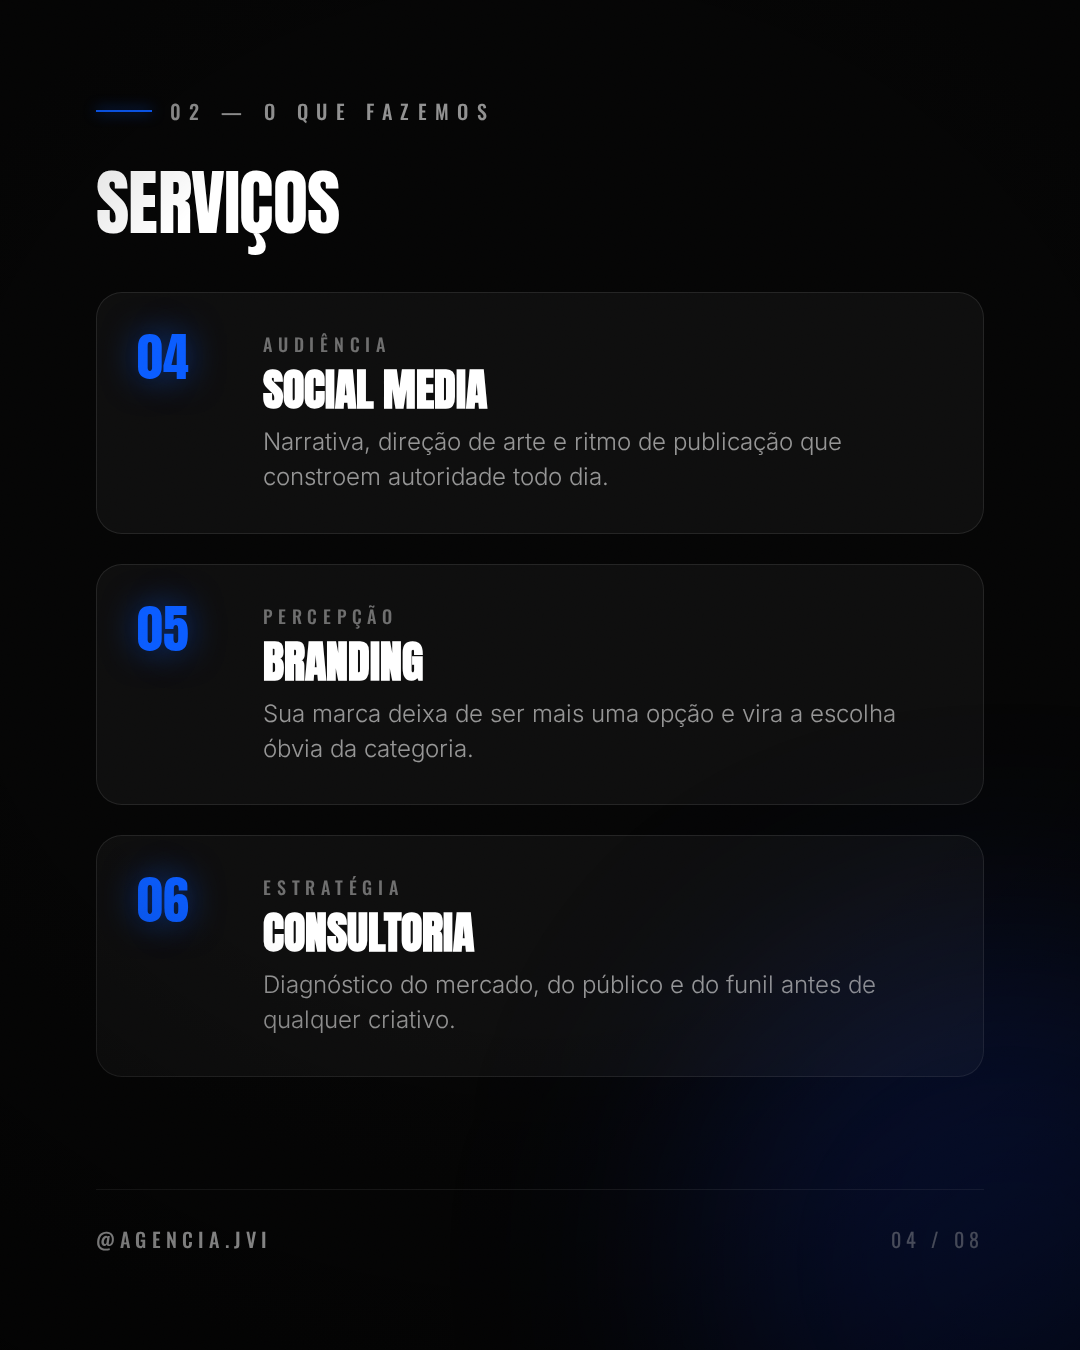
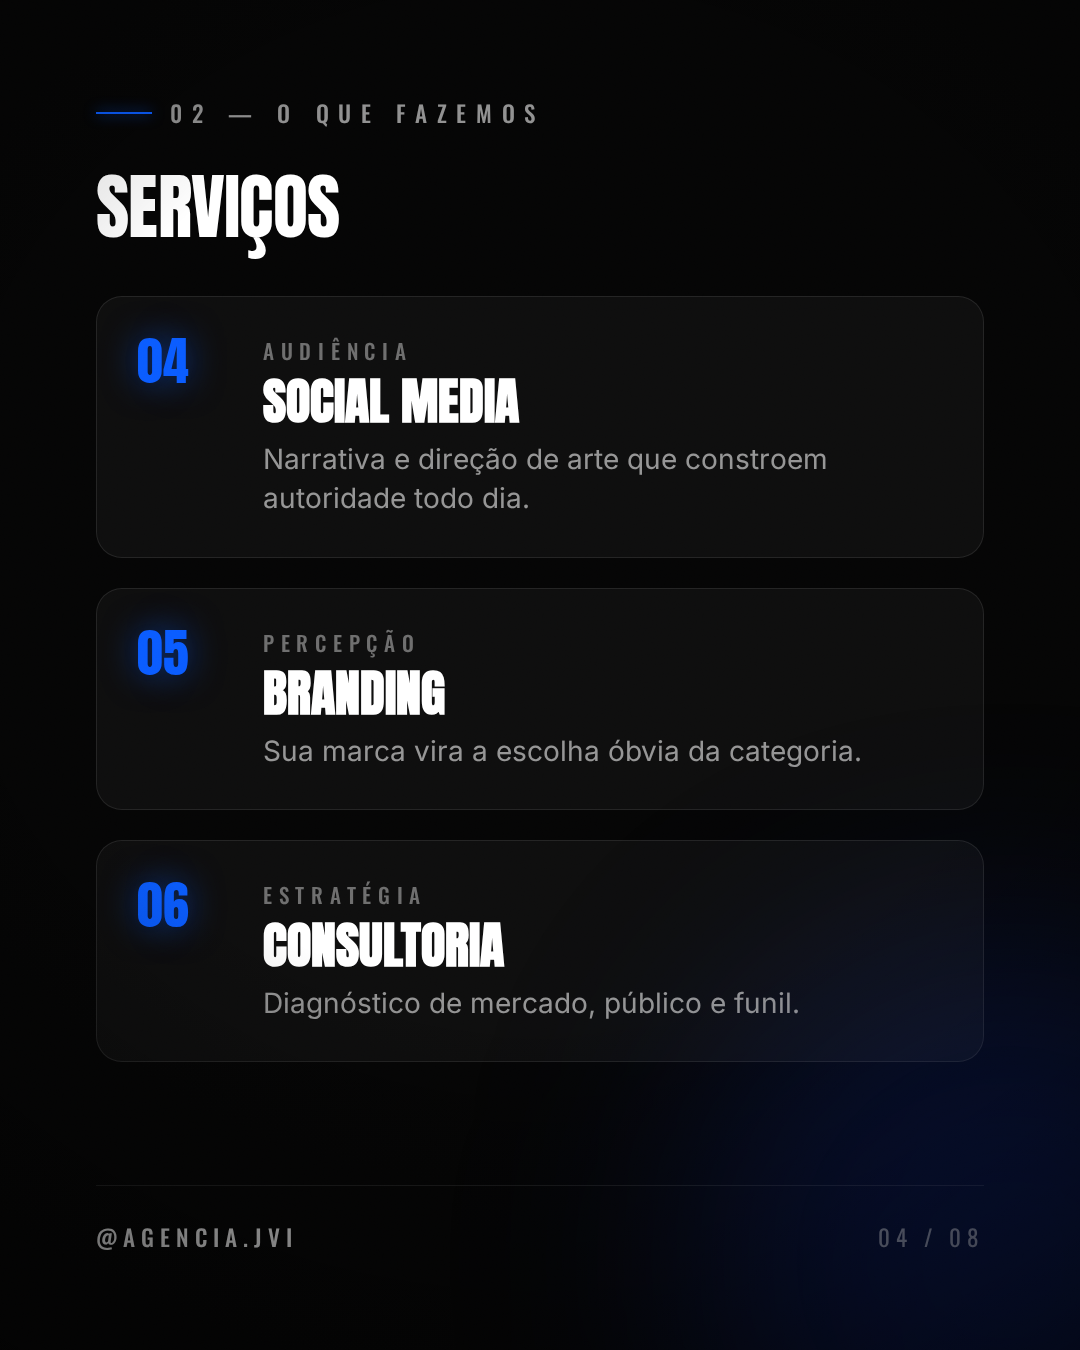
fix: aumenta legibilidade do carrossel no celular
No feed do Instagram cada slide aparece com cerca de 40% da largura
original, entao os corpos de texto de 22-27px ficavam pequenos demais.

- escala tipografica maior em todos os niveis (corpo 26->30, textos de
  servico 24->28, metodo 22->26, passos 27->31, labels e rodape)
- peso das fontes de leitura de 300 para 400/500, ganhando contraste
- copy enxugada em 17 trechos para caber na escala nova
- render.mjs passa a avisar quando o conteudo estoura os 1350px, que
  antes seria cortado em silencio pelo overflow:hidden

Claude-Session: https://claude.ai/code/session_01JFebwyHfD3vnGYjN18YjrG

diff --git a/carrossel/index.html b/carrossel/index.html
@@ -65,7 +65,7 @@ body{font-family:var(--sans);-webkit-font-smoothing:antialiased;text-rendering:o
 
 /* ================= TIPOGRAFIA ================= */
 .eyebrow{
-  font-family:var(--cond);font-weight:500;font-size:20px;
+  font-family:var(--cond);font-weight:500;font-size:23px;
   letter-spacing:.42em;text-transform:uppercase;color:var(--muted);
   display:flex;align-items:center;gap:18px;margin:0;
 }
@@ -83,11 +83,11 @@ body{font-family:var(--sans);-webkit-font-smoothing:antialiased;text-rendering:o
 .accent{color:var(--blue);text-shadow:0 0 42px rgba(10,92,255,.55);}
 
 .lead{
-  font-family:var(--sans);font-weight:300;font-size:31px;line-height:1.5;
+  font-family:var(--sans);font-weight:400;font-size:35px;line-height:1.45;
   color:rgba(255,255,255,.78);margin:0;
 }
 .body{
-  font-family:var(--sans);font-weight:300;font-size:26px;line-height:1.55;
+  font-family:var(--sans);font-weight:400;font-size:30px;line-height:1.5;
   color:var(--muted);margin:0;
 }
 
@@ -97,7 +97,7 @@ body{font-family:var(--sans);-webkit-font-smoothing:antialiased;text-rendering:o
 .foot{
   margin-top:auto;padding-top:34px;border-top:1px solid var(--line);
   display:flex;align-items:center;justify-content:space-between;
-  font-family:var(--cond);font-weight:400;font-size:20px;
+  font-family:var(--cond);font-weight:400;font-size:23px;
   letter-spacing:.26em;text-transform:uppercase;color:var(--dim);
 }
 .foot b{color:rgba(255,255,255,.72);font-weight:500;}
@@ -128,28 +128,28 @@ body{font-family:var(--sans);-webkit-font-smoothing:antialiased;text-rendering:o
   font-family:var(--display);font-size:52px;line-height:1;color:var(--blue);
   text-shadow:0 0 34px rgba(10,92,255,.5);flex:none;width:96px;
 }
-.svc-tag{font-family:var(--cond);font-weight:500;font-size:18px;letter-spacing:.32em;
+.svc-tag{font-family:var(--cond);font-weight:500;font-size:21px;letter-spacing:.32em;
   text-transform:uppercase;color:var(--dim);margin:0 0 10px;}
-.svc-title{font-family:var(--display);font-size:44px;line-height:1;text-transform:uppercase;margin:0 0 14px;}
-.svc-text{font-family:var(--sans);font-weight:300;font-size:24px;line-height:1.45;color:var(--muted);margin:0;}
+.svc-title{font-family:var(--display);font-size:50px;line-height:1;text-transform:uppercase;margin:0 0 14px;}
+.svc-text{font-family:var(--sans);font-weight:400;font-size:28px;line-height:1.4;color:var(--muted);margin:0;}
 
 /* ================= MÉTODO ================= */
 .grid2{display:grid;grid-template-columns:1fr 1fr;gap:26px;margin-top:54px;}
 .step{border:1px solid var(--line);border-radius:24px;background:var(--glass);padding:34px 32px;}
-.step-n{font-family:var(--display);font-size:40px;line-height:1;color:var(--blue);
+.step-n{font-family:var(--display);font-size:46px;line-height:1;color:var(--blue);
   text-shadow:0 0 30px rgba(10,92,255,.5);display:block;margin-bottom:16px;}
-.step h3{font-family:var(--display);font-size:38px;line-height:1;text-transform:uppercase;margin:0 0 12px;}
-.step p{font-family:var(--sans);font-weight:300;font-size:22px;line-height:1.45;color:var(--muted);margin:0;}
+.step h3{font-family:var(--display);font-size:44px;line-height:1;text-transform:uppercase;margin:0 0 12px;}
+.step p{font-family:var(--sans);font-weight:400;font-size:26px;line-height:1.4;color:var(--muted);margin:0;}
 
 /* ================= RESULTADOS ================= */
-.stats{display:grid;grid-template-columns:1fr 1fr;gap:30px;margin-top:60px;}
-.stat{border:1px solid var(--line);border-radius:26px;background:var(--glass);padding:44px 38px;}
+.stats{display:grid;grid-template-columns:1fr 1fr;gap:26px;margin-top:48px;}
+.stat{border:1px solid var(--line);border-radius:26px;background:var(--glass);padding:38px 36px;}
 .stat-num{
   font-family:var(--display);font-size:112px;line-height:.9;
   background:linear-gradient(180deg,#ffffff 0%,#7fb0ff 55%,var(--blue) 100%);
   -webkit-background-clip:text;background-clip:text;color:transparent;display:block;
 }
-.stat-label{font-family:var(--cond);font-weight:400;font-size:22px;letter-spacing:.24em;
+.stat-label{font-family:var(--cond);font-weight:500;font-size:26px;letter-spacing:.24em;
   text-transform:uppercase;color:var(--muted);margin-top:18px;}
 
 /* ================= PASSOS ================= */
@@ -163,7 +163,7 @@ body{font-family:var(--sans);-webkit-font-smoothing:antialiased;text-rendering:o
   box-shadow:0 0 42px rgba(10,92,255,.35);
 }
 .stepline h3{font-family:var(--display);font-size:52px;line-height:1;text-transform:uppercase;margin:12px 0 14px;}
-.stepline p{font-family:var(--sans);font-weight:300;font-size:27px;line-height:1.45;color:var(--muted);margin:0;}
+.stepline p{font-family:var(--sans);font-weight:400;font-size:31px;line-height:1.4;color:var(--muted);margin:0;}
 
 /* ================= CTA ================= */
 .contacts{display:flex;flex-direction:column;gap:22px;margin-top:52px;}
@@ -174,9 +174,9 @@ body{font-family:var(--sans);-webkit-font-smoothing:antialiased;text-rendering:o
 .contact .ico{flex:none;width:56px;height:56px;border-radius:16px;background:rgba(10,92,255,.14);
   border:1px solid rgba(10,92,255,.4);display:flex;align-items:center;justify-content:center;}
 .contact .ico svg{width:26px;height:26px;fill:var(--blue);}
-.contact small{display:block;font-family:var(--cond);font-weight:400;font-size:17px;
+.contact small{display:block;font-family:var(--cond);font-weight:500;font-size:20px;
   letter-spacing:.3em;text-transform:uppercase;color:var(--dim);margin-bottom:6px;}
-.contact b{font-family:var(--sans);font-weight:600;font-size:29px;color:var(--white);}
+.contact b{font-family:var(--sans);font-weight:700;font-size:33px;color:var(--white);}
 
 .btn{
   margin-top:46px;display:flex;align-items:center;justify-content:center;gap:18px;
@@ -194,15 +194,15 @@ body{font-family:var(--sans);-webkit-font-smoothing:antialiased;text-rendering:o
 .pull p{font-family:var(--display);font-size:46px;line-height:1.08;text-transform:uppercase;margin:0;}
 .pull span{color:var(--blue);}
 
-.chips{display:flex;flex-wrap:wrap;gap:16px;margin-top:44px;}
+.chips{display:flex;flex-wrap:wrap;gap:16px;margin-top:30px;}
 .chip{
   border:1px solid rgba(10,92,255,.45);background:rgba(10,92,255,.10);border-radius:999px;
-  padding:16px 28px;font-family:var(--cond);font-weight:500;font-size:21px;
+  padding:17px 30px;font-family:var(--cond);font-weight:500;font-size:24px;
   letter-spacing:.22em;text-transform:uppercase;color:rgba(255,255,255,.82);
 }
 
-.markline{font-family:var(--cond);font-weight:500;font-size:21px;letter-spacing:.42em;
-  text-transform:uppercase;color:var(--dim);text-align:center;margin:38px 0 0;}
+.markline{font-family:var(--cond);font-weight:500;font-size:23px;letter-spacing:.42em;
+  text-transform:uppercase;color:var(--dim);text-align:center;margin:28px 0 0;}
 </style>
 </head>
 <body>
@@ -234,13 +234,8 @@ body{font-family:var(--sans);-webkit-font-smoothing:antialiased;text-rendering:o
   <h2 class="display h-xl" style="margin-top:52px">Prazer,<br/>somos a<br/><span class="accent">Agência JVI.</span></h2>
   <div class="rule" style="width:240px;margin:48px 0"></div>
   <p class="lead">Marketing, estratégia e resultado para quem cansou de esperar a próxima indicação chegar.</p>
-  <p class="body" style="margin-top:34px">Nascemos em Recife com uma obsessão: fazer negócio tradicional vender online todos os dias. Aqui, criativo bonito só entra no ar depois que a estratégia está de pé.</p>
+  <p class="body" style="margin-top:34px">Nascemos em Recife com uma obsessão: fazer negócio tradicional vender online todos os dias.</p>
   <div class="pull"><p>Estratégia antes do criativo.<br/>Dados antes do achismo.<br/><span>Sistema antes da sorte.</span></p></div>
-  <div class="chips">
-    <span class="chip">Recife — PE</span>
-    <span class="chip">+40 marcas</span>
-    <span class="chip">Resultado no contrato</span>
-  </div>
   <div class="foot"><span><b>@agencia.jvi</b></span><span>02 / 08</span></div>
   <div class="vig"></div><div class="grain"></div>
 </section>
@@ -253,15 +248,15 @@ body{font-family:var(--sans);-webkit-font-smoothing:antialiased;text-rendering:o
   <div class="svc">
     <div class="svc-item">
       <span class="svc-num">01</span>
-      <div><p class="svc-tag">Presença</p><h3 class="svc-title">Sites</h3><p class="svc-text">Site rápido, bonito e feito para vender — não apenas para existir.</p></div>
+      <div><p class="svc-tag">Presença</p><h3 class="svc-title">Sites</h3><p class="svc-text">Rápido, bonito e feito para vender. Não só para existir.</p></div>
     </div>
     <div class="svc-item">
       <span class="svc-num">02</span>
-      <div><p class="svc-tag">Conversão</p><h3 class="svc-title">Landing Pages</h3><p class="svc-text">Páginas desenhadas para transformar clique em conversa e conversa em venda.</p></div>
+      <div><p class="svc-tag">Conversão</p><h3 class="svc-title">Landing Pages</h3><p class="svc-text">Transformam clique em conversa e conversa em venda.</p></div>
     </div>
     <div class="svc-item">
       <span class="svc-num">03</span>
-      <div><p class="svc-tag">Demanda</p><h3 class="svc-title">Tráfego Pago</h3><p class="svc-text">Mídia gerida com dados: verba onde converte, corte onde queima orçamento.</p></div>
+      <div><p class="svc-tag">Demanda</p><h3 class="svc-title">Tráfego Pago</h3><p class="svc-text">Verba onde converte. Corte onde queima orçamento.</p></div>
     </div>
   </div>
   <div class="foot"><span><b>@agencia.jvi</b></span><span>03 / 08</span></div>
@@ -276,15 +271,15 @@ body{font-family:var(--sans);-webkit-font-smoothing:antialiased;text-rendering:o
   <div class="svc">
     <div class="svc-item">
       <span class="svc-num">04</span>
-      <div><p class="svc-tag">Audiência</p><h3 class="svc-title">Social Media</h3><p class="svc-text">Narrativa, direção de arte e ritmo de publicação que constroem autoridade todo dia.</p></div>
+      <div><p class="svc-tag">Audiência</p><h3 class="svc-title">Social Media</h3><p class="svc-text">Narrativa e direção de arte que constroem autoridade todo dia.</p></div>
     </div>
     <div class="svc-item">
       <span class="svc-num">05</span>
-      <div><p class="svc-tag">Percepção</p><h3 class="svc-title">Branding</h3><p class="svc-text">Sua marca deixa de ser mais uma opção e vira a escolha óbvia da categoria.</p></div>
+      <div><p class="svc-tag">Percepção</p><h3 class="svc-title">Branding</h3><p class="svc-text">Sua marca vira a escolha óbvia da categoria.</p></div>
     </div>
     <div class="svc-item">
       <span class="svc-num">06</span>
-      <div><p class="svc-tag">Estratégia</p><h3 class="svc-title">Consultoria</h3><p class="svc-text">Diagnóstico do mercado, do público e do funil antes de qualquer criativo.</p></div>
+      <div><p class="svc-tag">Estratégia</p><h3 class="svc-title">Consultoria</h3><p class="svc-text">Diagnóstico de mercado, público e funil.</p></div>
     </div>
   </div>
   <div class="foot"><span><b>@agencia.jvi</b></span><span>04 / 08</span></div>
@@ -297,12 +292,12 @@ body{font-family:var(--sans);-webkit-font-smoothing:antialiased;text-rendering:o
   <p class="eyebrow">03 — Como trabalhamos</p>
   <h2 class="display h-lg" style="margin-top:44px">O método <span class="accent">JVI</span></h2>
   <div class="grid2">
-    <div class="step"><span class="step-n">01</span><h3>Estratégia</h3><p>Diagnóstico de mercado, público e funil antes do primeiro criativo.</p></div>
-    <div class="step"><span class="step-n">02</span><h3>Posição</h3><p>Sua marca deixa de competir por preço e passa a competir por valor.</p></div>
-    <div class="step"><span class="step-n">03</span><h3>Conteúdo</h3><p>Narrativa e ritmo de publicação que constroem autoridade diária.</p></div>
-    <div class="step"><span class="step-n">04</span><h3>Tráfego</h3><p>Verba onde converte, corte onde queima orçamento. Sempre com dados.</p></div>
-    <div class="step"><span class="step-n">05</span><h3>Conversão</h3><p>Página, copy e jornada para virar clique em cliente pagante.</p></div>
-    <div class="step"><span class="step-n">06</span><h3>Escala</h3><p>O que funciona vira sistema — e o sistema cresce sem depender de sorte.</p></div>
+    <div class="step"><span class="step-n">01</span><h3>Estratégia</h3><p>Mercado, público e funil antes do criativo.</p></div>
+    <div class="step"><span class="step-n">02</span><h3>Posição</h3><p>Você compete por valor, não por preço.</p></div>
+    <div class="step"><span class="step-n">03</span><h3>Conteúdo</h3><p>Ritmo de publicação que gera autoridade.</p></div>
+    <div class="step"><span class="step-n">04</span><h3>Tráfego</h3><p>Mídia guiada por dados, não por achismo.</p></div>
+    <div class="step"><span class="step-n">05</span><h3>Conversão</h3><p>Página e copy que viram cliente pagante.</p></div>
+    <div class="step"><span class="step-n">06</span><h3>Escala</h3><p>O que funciona vira sistema previsível.</p></div>
   </div>
   <div class="foot"><span><b>@agencia.jvi</b></span><span>05 / 08</span></div>
   <div class="vig"></div><div class="grain"></div>
@@ -319,7 +314,7 @@ body{font-family:var(--sans);-webkit-font-smoothing:antialiased;text-rendering:o
     <div class="stat"><span class="stat-num">40+</span><div class="stat-label">Marcas posicionadas</div></div>
     <div class="stat"><span class="stat-num">7x</span><div class="stat-label">Mais autoridade</div></div>
   </div>
-  <p class="body" style="margin-top:44px">Crescimento, leads e autoridade deixam de ser sorte e viram consequência de um sistema que roda todos os dias.</p>
+  <p class="body" style="margin-top:32px">Aqui, resultado não é sorte. É consequência de um sistema que roda todos os dias.</p>
   <div class="chips">
     <span class="chip">Média das marcas atendidas</span>
     <span class="chip">Dados de gestão JVI</span>
@@ -334,9 +329,9 @@ body{font-family:var(--sans);-webkit-font-smoothing:antialiased;text-rendering:o
   <p class="eyebrow">05 — Próximo passo</p>
   <h2 class="display h-xl" style="margin-top:48px">Comece hoje.<br/><span class="accent">Em 3 passos.</span></h2>
   <div class="steps">
-    <div class="stepline"><span class="n">1</span><div><h3>Você chama</h3><p>Manda mensagem no WhatsApp e conta o momento do seu negócio.</p></div></div>
-    <div class="stepline"><span class="n">2</span><div><h3>A gente diagnostica</h3><p>Analisamos mercado, público e funil. Sem custo e sem compromisso.</p></div></div>
-    <div class="stepline"><span class="n">3</span><div><h3>Você recebe o plano</h3><p>O caminho mais curto entre a sua marca e o próximo cliente.</p></div></div>
+    <div class="stepline"><span class="n">1</span><div><h3>Você chama</h3><p>Manda mensagem no WhatsApp contando seu momento.</p></div></div>
+    <div class="stepline"><span class="n">2</span><div><h3>A gente diagnostica</h3><p>Analisamos mercado, público e funil. Sem custo.</p></div></div>
+    <div class="stepline"><span class="n">3</span><div><h3>Você recebe o plano</h3><p>O caminho mais curto até o próximo cliente.</p></div></div>
   </div>
   <div class="pull"><p>Resposta no mesmo dia útil.<br/><span>Sem enrolação, sem contrato surpresa.</span></p></div>
   <div class="foot"><span><b>@agencia.jvi</b></span><span>07 / 08</span></div>
@@ -365,7 +360,7 @@ body{font-family:var(--sans);-webkit-font-smoothing:antialiased;text-rendering:o
   <div class="btn">Solicite seu orçamento
     <svg viewBox="0 0 24 24" fill="none" stroke="#fff" stroke-width="2.6" stroke-linecap="round" stroke-linejoin="round"><path d="M5 12h13M12 5l7 7-7 7"/></svg>
   </div>
-  <p class="markline">Agência JVI · Marketing | Estratégia | Resultados</p>
+  <p class="markline">Marketing | Estratégia | Resultados</p>
   <div class="foot"><span><b>@agencia.jvi</b></span><span>08 / 08</span></div>
   <div class="vig"></div><div class="grain"></div>
 </section>
